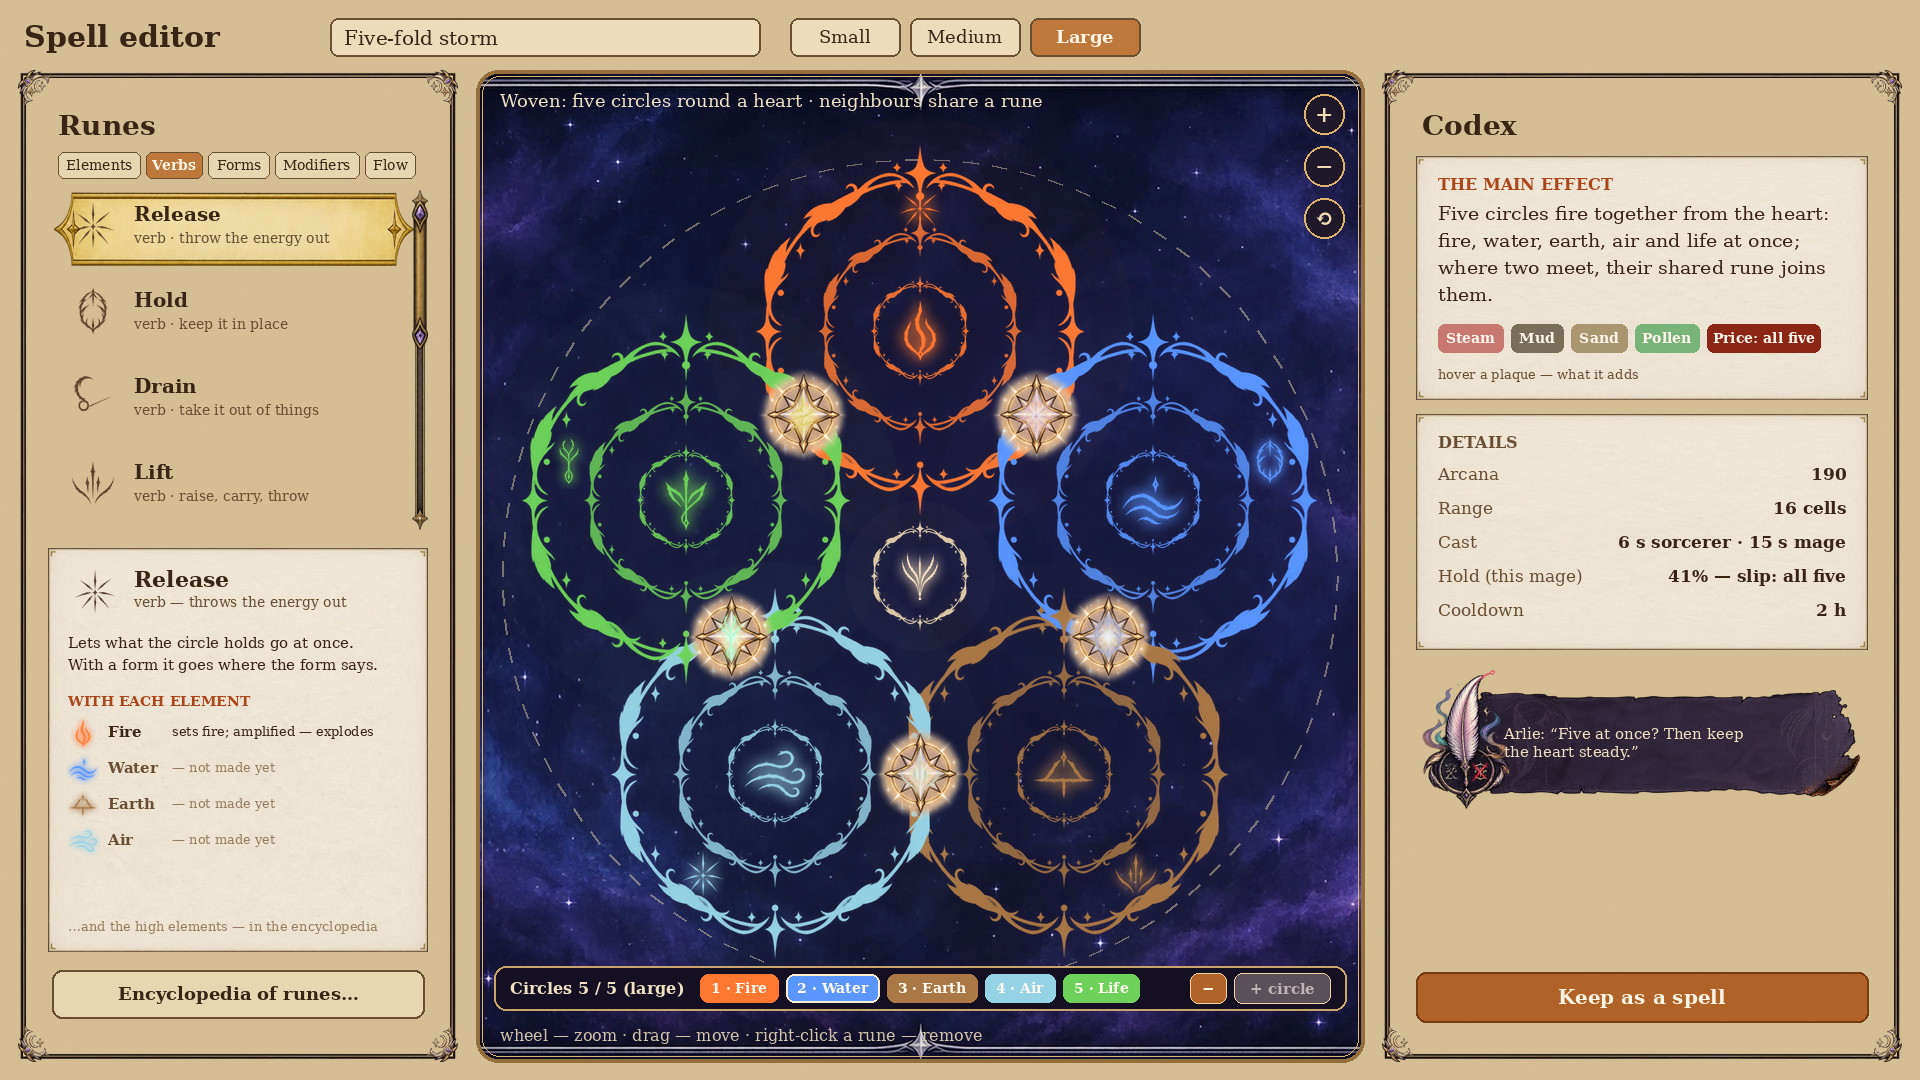
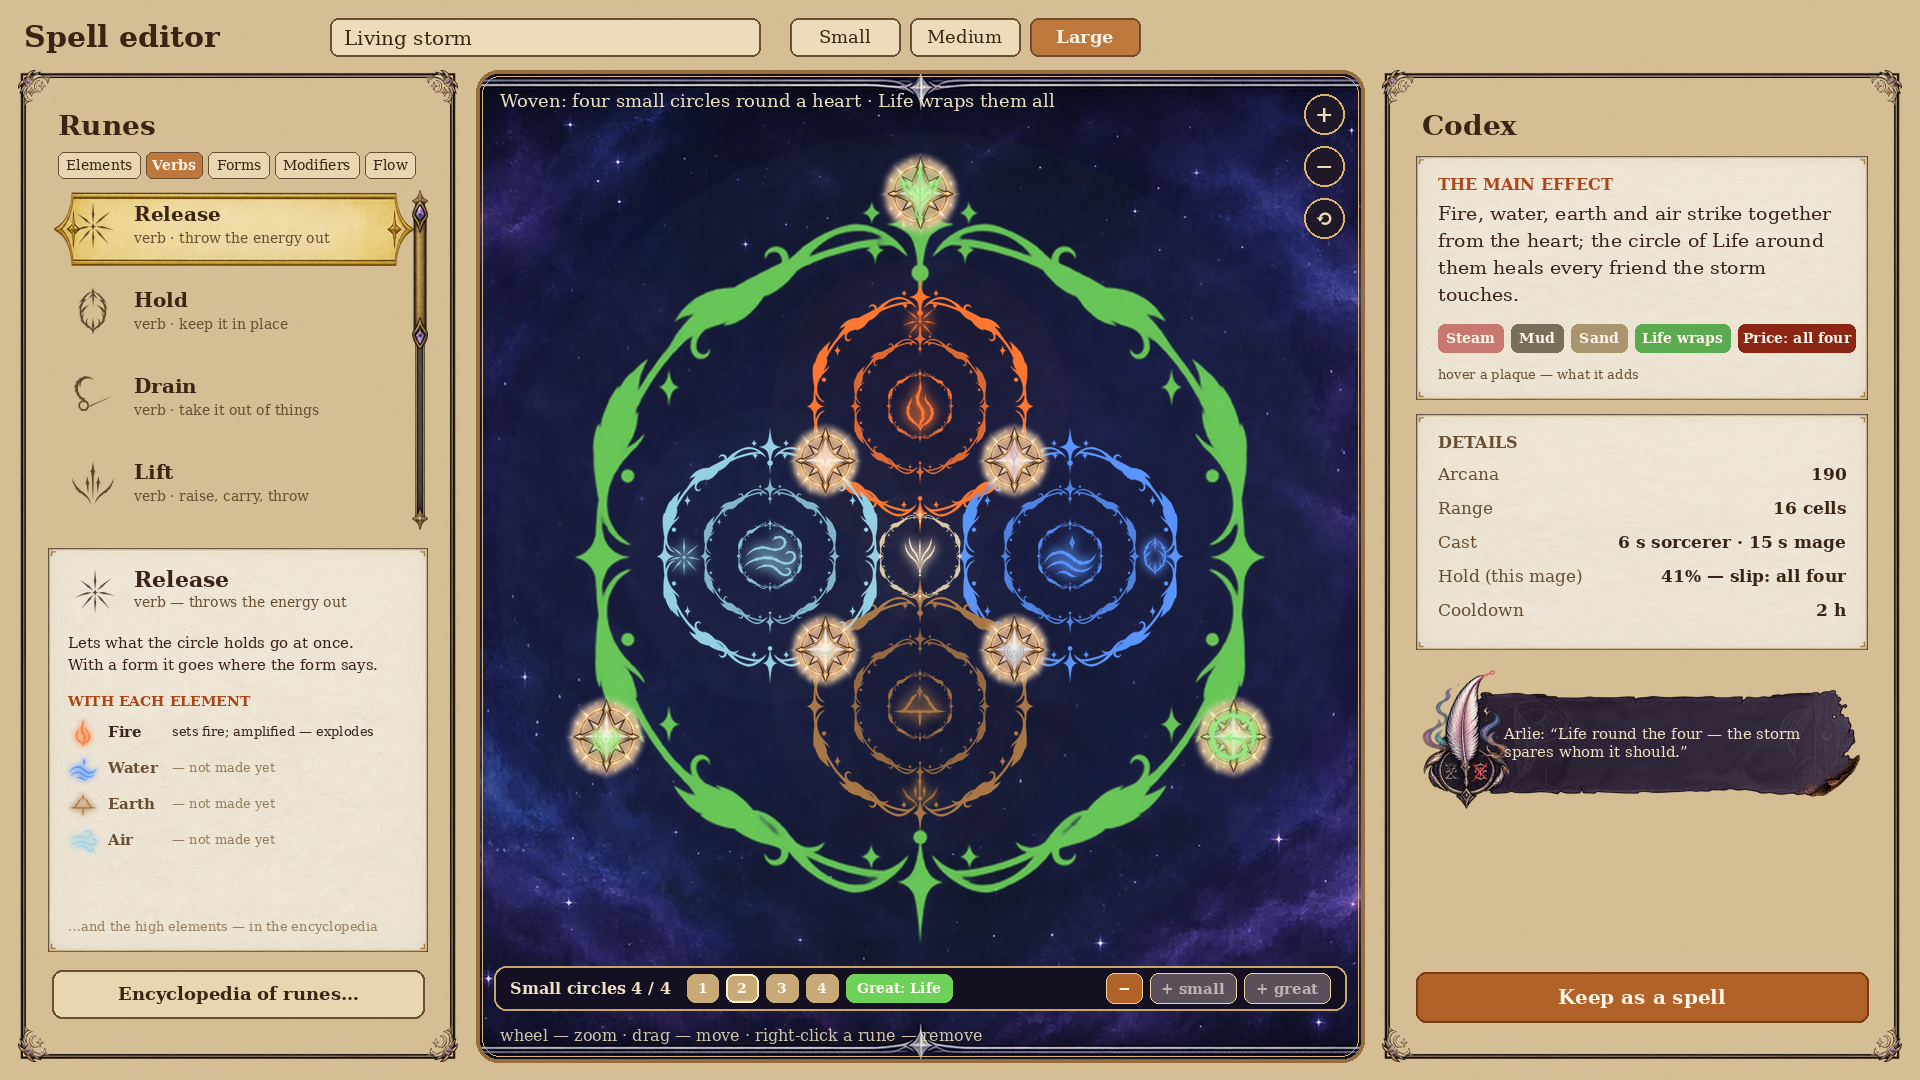
Magic: editor preview v6 (empty small circles up to 4, great circle of Life wrapping them)
Claude-Session: https://claude.ai/code/session_01YCWNLtj9zFsogxZeNiDKcG

diff --git a/Framework/Magic/Магия-план.md b/Framework/Magic/Магия-план.md
@@ -1337,3 +1337,5 @@
 - Итого при 100 Арканы: **15–30 простых заклинаний**, 5–8 средних, 1–2 больших сплетения. Большое — событие, малое — инструмент на каждый день.
 - Медитация и святилище остаются главными источниками; цена удержания (срыв) не зависит от Арканы.
 - **Полоса кругов в центре (автор):** круги добавляются как секции в ритуалистике — «+ circle» / «−», плашки кругов (1 · Fire, 2 · Water…), клик выбирает круг, и руны пишутся в его кольца. Предел (предложение): малый круг — 1, средний — 3, большой — 5.
+- **Пересчёт Арканы (раздел 78) — принят** (автор; возможно, изменится позже).
+- **Круги — уточнение автора:** добавляется **пустой** круг; стихия задаётся руной, поставленной **в центр** круга (плашки внизу — просто номера). **Малые круги** — малые стихии (Огонь, Вода, Земля, Воздух), **до 4**. **Большие круги** — высшие стихии, они **огибают весь узор** малых кругов (1–4). **Жизнь — самый малый из больших кругов, первый.** Кнопки: «+ small», «+ great», «−».
